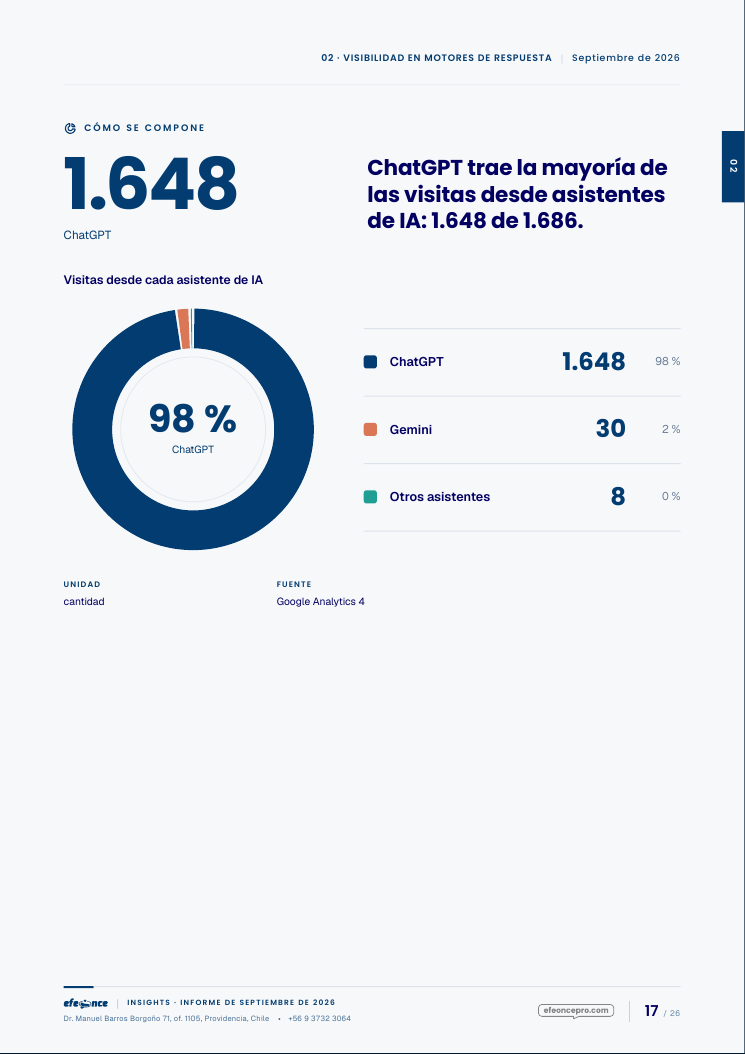
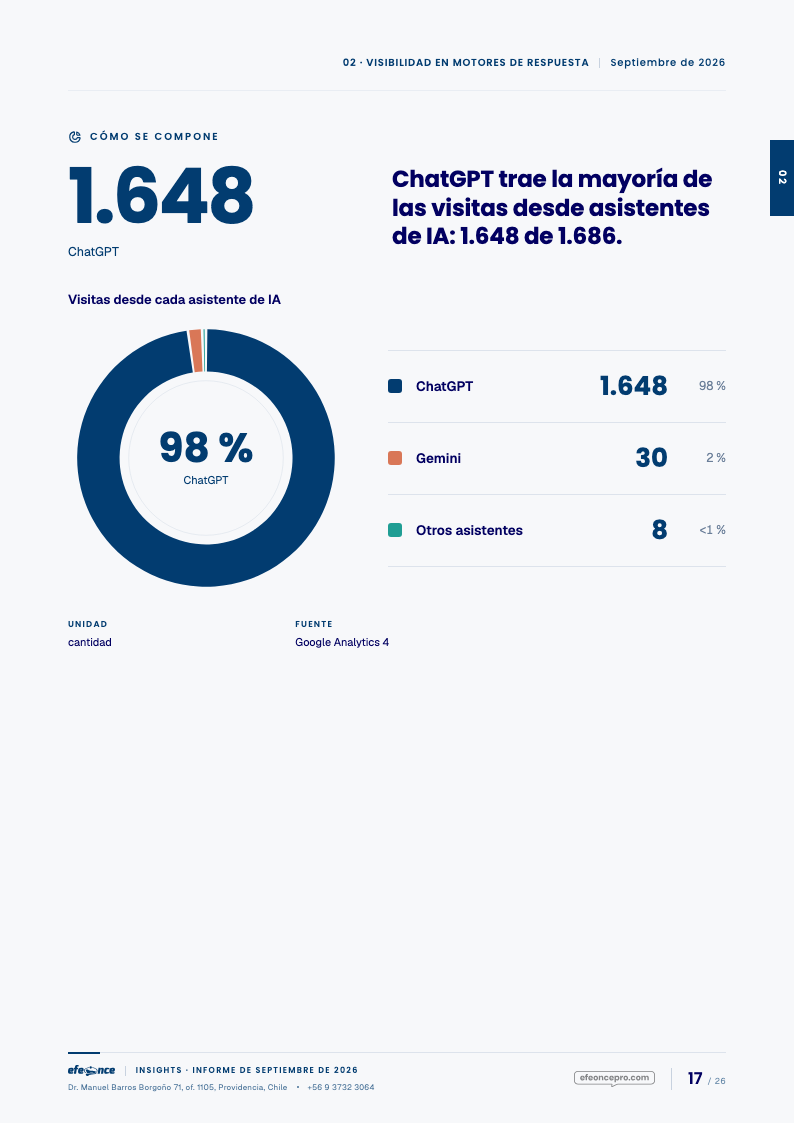
fix(insights): TASK-1975 — la dona del compositor acepta «<1 %» (vale 0 en la suma)
El validador parseaba «<1 %» como 1 y rechazaba la dona real de Berel («suman 101»).
Ahora una parte «<1 %» vale 0 en la suma y exige cuenta > 0 y < 1 %. Test con el caso
real; vista previa de Berel regenerada (dona p. 17, cascada p. 7 con el % sin partir).

diff --git a/src/lib/artifact-composer/catalogs/insights-shared/figure-donut.ts b/src/lib/artifact-composer/catalogs/insights-shared/figure-donut.ts
@@ -152,17 +152,21 @@ export const donutSlices = (parts: readonly DonutPartInput[], box: DonutBox): Do
 
   const total = counts.reduce<number>((sum, count) => sum + count!, 0)
 
-  // La participación impresa es derivada (restos mayores): nunca se aleja un punto entero de la cuenta.
-  parts.forEach((part, index) => {
-    const printed = parsePrintedNumber(part.share)
-    const exact = (counts[index]! / total) * 100
+  // La participación impresa es derivada (restos mayores): nunca se aleja un punto entero de la cuenta. Una parte que
+  // redondea a 0 se imprime «<1 %» (TASK-1975): vale 0 en la suma y exige una cuenta mayor que 0 y menor que el 1 %.
+  const printedShareOf = (share: string): number | null => (/^<\s*1(\s|%|$)/.test(share.trim()) ? 0 : parsePrintedNumber(share))
 
-    if (printed === null || Math.abs(printed - exact) >= 1) {
+  parts.forEach((part, index) => {
+    const printed = printedShareOf(part.share)
+    const exact = (counts[index]! / total) * 100
+    const underOne = /^</.test(part.share.trim())
+
+    if (printed === null || Math.abs(printed - exact) >= 1 || (underOne && !(exact > 0 && exact < 1))) {
       throw new FigureDataError(`La participación «${part.share}» de «${part.label}» no corresponde a su cuenta (${part.count} de ${total}).`)
     }
   })
 
-  const printedSum = parts.reduce((sum, part) => sum + parsePrintedNumber(part.share)!, 0)
+  const printedSum = parts.reduce((sum, part) => sum + printedShareOf(part.share)!, 0)
 
   if (Math.round(printedSum) !== 100) throw new FigureDataError(`Las participaciones de la dona suman ${printedSum}, no 100.`)
 

diff --git a/src/lib/artifact-composer/__tests__/insights-figure-donut.test.ts b/src/lib/artifact-composer/__tests__/insights-figure-donut.test.ts
@@ -103,6 +103,26 @@ describe('porciones de la dona', () => {
       )
     ).toThrow(FigureDataError)
   })
+
+  it('«<1 %» vale 0 en la suma y sólo se acepta para una parte con cuenta y menos del 1 % (caso real Berel 2026-09)', () => {
+    const real = [
+      { label: 'ChatGPT', count: '1.648', share: '98 %' },
+      { label: 'Gemini', count: '30', share: '2 %' },
+      { label: 'Otros asistentes', count: '8', share: '<1 %' }
+    ]
+
+    expect(donutSlices(real, REPORT_DONUT_BOX)).toHaveLength(3)
+    expect(() => donutSlices([...real.slice(0, 2), { label: 'Otros asistentes', count: '0', share: '<1 %' }], REPORT_DONUT_BOX)).toThrow(FigureDataError)
+    expect(() =>
+      donutSlices(
+        [
+          { label: 'A', count: '90', share: '90 %' },
+          { label: 'B', count: '10', share: '<1 %' }
+        ],
+        REPORT_DONUT_BOX
+      )
+    ).toThrow(FigureDataError)
+  })
 })
 
 describe('tonos de las partes', () => {

diff --git a/docs/ui/reviews/TASK-1975-efeonce-insights-new-figure-pages/README.md b/docs/ui/reviews/TASK-1975-efeonce-insights-new-figure-pages/README.md
@@ -142,7 +142,10 @@ meta de 28 caracteres en el deck.
   [`berel-2026-09-a4-dona-ga4-real.png`](berel-2026-09-a4-dona-ga4-real.png).
 
 Defecto que destapó: una parte con valor que redondea a 0 % se leía «0 %». Ahora se lee «<1 %» (`shareLabel` en
-`figure-slots.ts`, commit `8e4fbac7b`). Queda una decisión abierta: el color de las partes de waffle y dona sin rol
+`figure-slots.ts`, commit `8e4fbac7b`); el validador de la dona del compositor también lo acepta (vale 0 en la suma y
+exige una cuenta mayor que 0 y menor que el 1 %), sin lo cual la página no componía. Vista previa regenerada el
+2026-10-03 con las dos correcciones: dona p. 17 y cascada p. 7 con «(−17,0 %)» sin partir
+([`berel-2026-09-a4-cascada-lead.png`](berel-2026-09-a4-cascada-lead.png)). Queda una decisión abierta: el color de las partes de waffle y dona sin rol
 declarado se asigna por orden, y en esta dona Gemini queda pintado con el color de «oportunidad».
 
 **Observaciones de esta revisión, no corregidas:**
